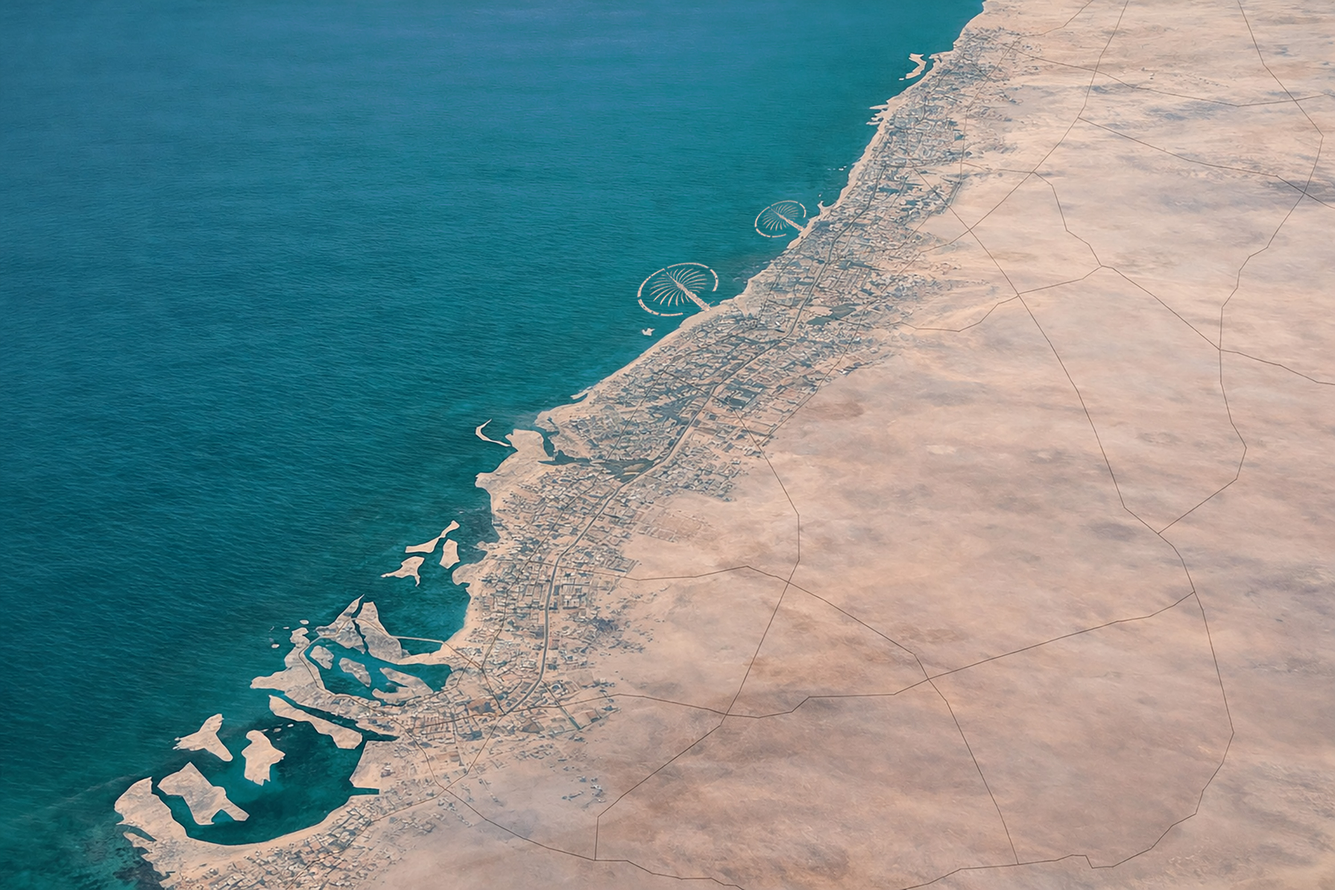
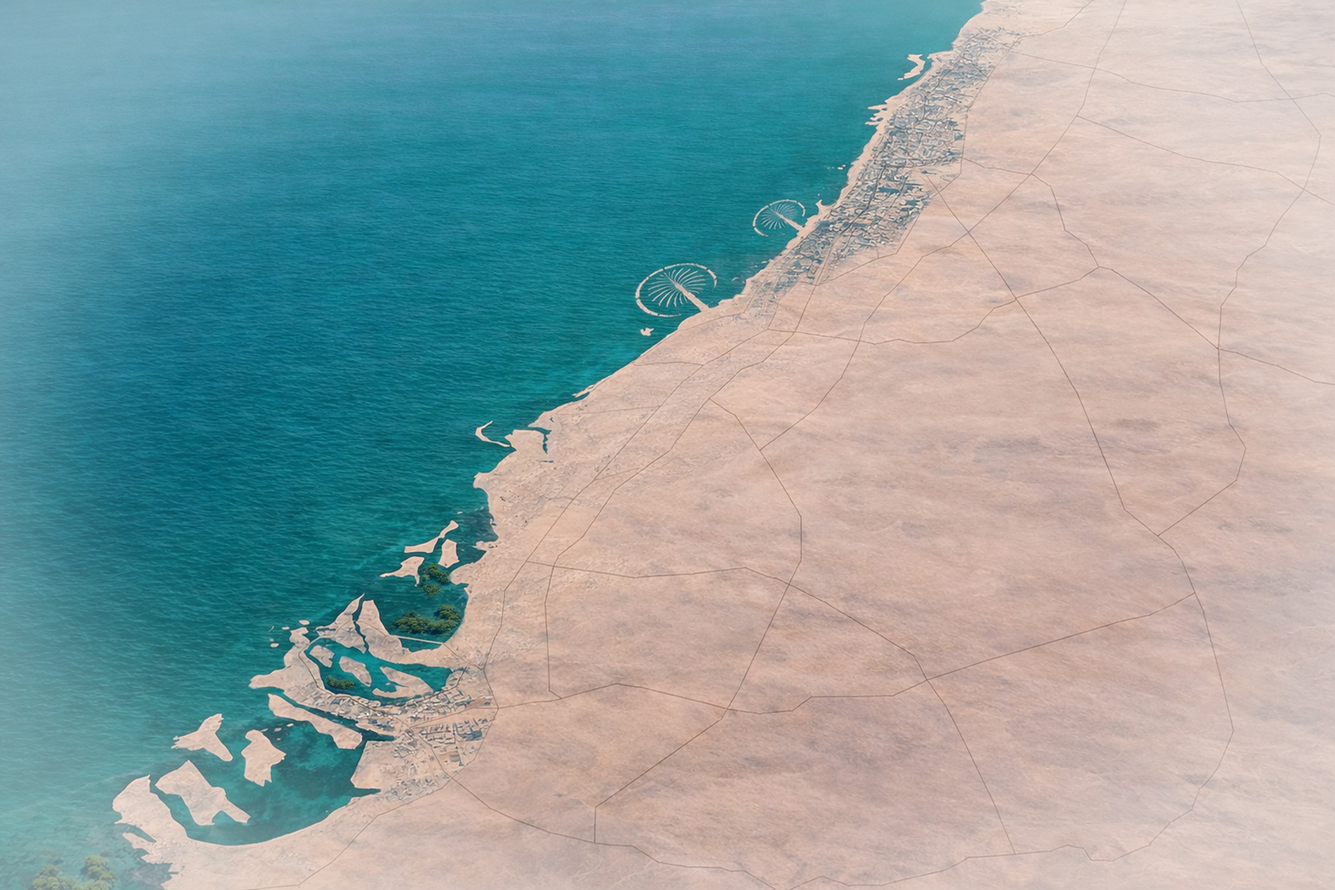
add mangroves

diff --git a/index.html b/index.html
@@ -29,6 +29,7 @@
     </div>
 
     <script>
+      const OVERSCAN = 1.15
       /* ================== CANVAS / DPI ================== */
       const canvas = document.getElementById("c");
       const ctx = canvas.getContext("2d");
@@ -49,6 +50,15 @@
       }
       window.addEventListener("resize", resize);
       resize();
+
+      /* ================== MOUSE ================== */
+
+      let mouse = {
+        x: 0,
+        y: 0,
+        tx: 0,
+        ty: 0
+      };
 
       /* ================== ASSETS ================== */
       const map = new Image();
@@ -93,7 +103,7 @@
 
         camera.activeMarker = marker;
 
-        camera.targetScale = 1.45;
+        camera.targetScale = 1.15;
 
         // ⭐ центрируем маркер
         camera.targetX = width / 2 - px * camera.targetScale;
@@ -112,13 +122,13 @@
 
       /* ================== MARKERS ================== */
       const markers = [
-        { x: 0.625, y: 0.26, logo: "iconic-logo.png", w: 160, h: 75, delay: 0 },
+        { x: 0.625, y: 0.26, logo: "iconic-logo.png", w: 120, h: 55, delay: 0 },
         {
           x: 0.246,
           y: 0.744,
           logo: "rivera-logo.png",
-          w: 160,
-          h: 75,
+          w: 120,
+          h: 55,
           delay: 0.4,
         },
       ];
@@ -156,20 +166,20 @@
         const a = easeOutCubic(appear);
         const float = Math.sin(t * 1.4 + m.delay * 4) * 4;
 
-        ctx.strokeStyle = `rgba(50,50,50,${0.4 * a})`;
+        ctx.strokeStyle = `rgba(21,24,37,${0.4 * a})`;
         ctx.lineWidth = 2;
         ctx.beginPath();
         ctx.moveTo(px, py);
-        ctx.lineTo(px, py - 45 * a);
+        ctx.lineTo(px, py - 65 * a);
         ctx.stroke();
 
-        ctx.fillStyle = `rgba(50,50,50,${0.9 * a})`;
+        ctx.fillStyle = `rgba(21,24,37,${0.9 * a})`;
         ctx.beginPath();
         ctx.arc(px, py, 4, 0, Math.PI * 2);
         ctx.fill();
 
         ctx.globalAlpha = a;
-        ctx.fillStyle = "rgba(50,50,50,0.95)";
+        ctx.fillStyle = "rgba(21,24,37,0.95)";
         roundRect(
           ctx,
           px - m.w / 1.75 - 16,
@@ -189,7 +199,7 @@
       function drawImageCover(ctx, img, cw, ch) {
         const iw = img.naturalWidth;
         const ih = img.naturalHeight;
-        const scale = Math.max(cw / iw, ch / ih);
+        const scale = Math.max(cw / iw, ch / ih) * OVERSCAN;
         const w = iw * scale;
         const h = ih * scale;
         const x = (cw - w) / 2;
@@ -213,13 +223,18 @@
         camera.x = lerp(camera.x, camera.targetX, 0.03);
         camera.y = lerp(camera.y, camera.targetY, 0.03);
 
+        mouse.x = lerp(mouse.x, mouse.tx, 0.06);
+        mouse.y = lerp(mouse.y, mouse.ty, 0.06);
+
+        const PARALLAX = 30;
+
         ctx.setTransform(
           camera.scale * dpr,
           0,
           0,
           camera.scale * dpr,
-          camera.x * dpr,
-          camera.y * dpr,
+          (camera.x + mouse.x * PARALLAX) * dpr,
+          (camera.y + mouse.y * PARALLAX) * dpr
         );
 
         lastMapRect = drawImageCover(ctx, map, width, height);
@@ -236,7 +251,7 @@
         requestAnimationFrame(draw);
       }
 
-      /* ================== CLICK ================== */
+      /* ================== EVENTS ================== */
       canvas.addEventListener("click", (e) => {
         if (!lastMapRect) return;
 
@@ -268,6 +283,14 @@
             break;
           }
         }
+      });
+
+      canvas.addEventListener('mousemove', e => {
+        const rect = canvas.getBoundingClientRect();
+
+        // нормализуем в диапазон [-1 .. 1]
+        mouse.tx = ((e.clientX - rect.left) / rect.width  - 0.5) * 2;
+        mouse.ty = ((e.clientY - rect.top)  / rect.height - 0.5) * 2;
       });
 
       /* ================== START ================== */
